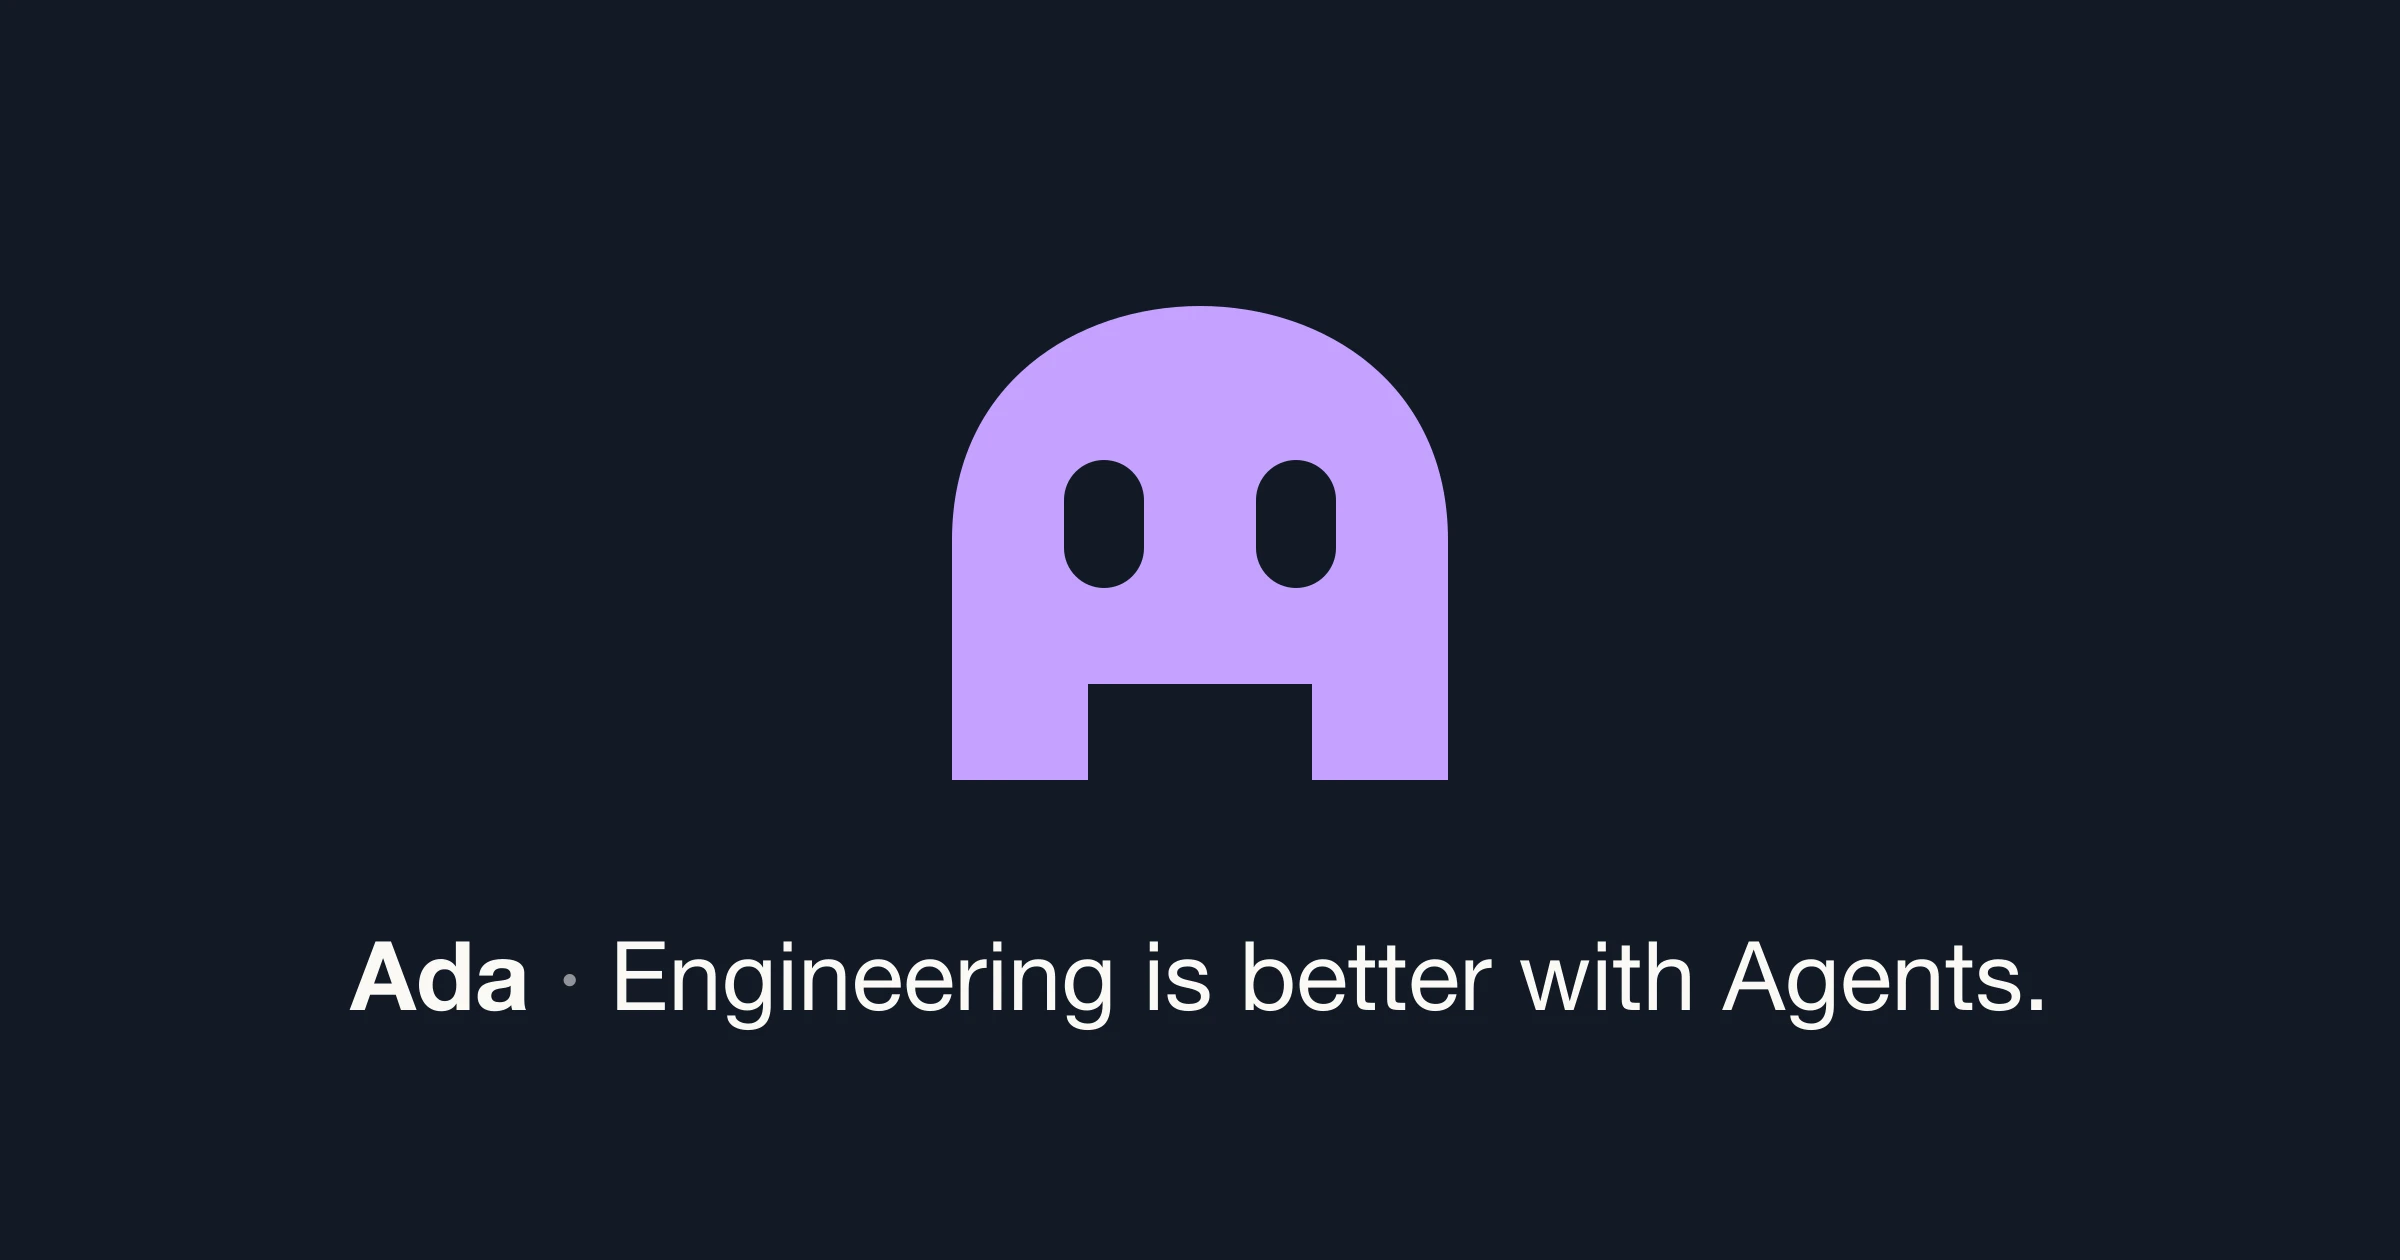
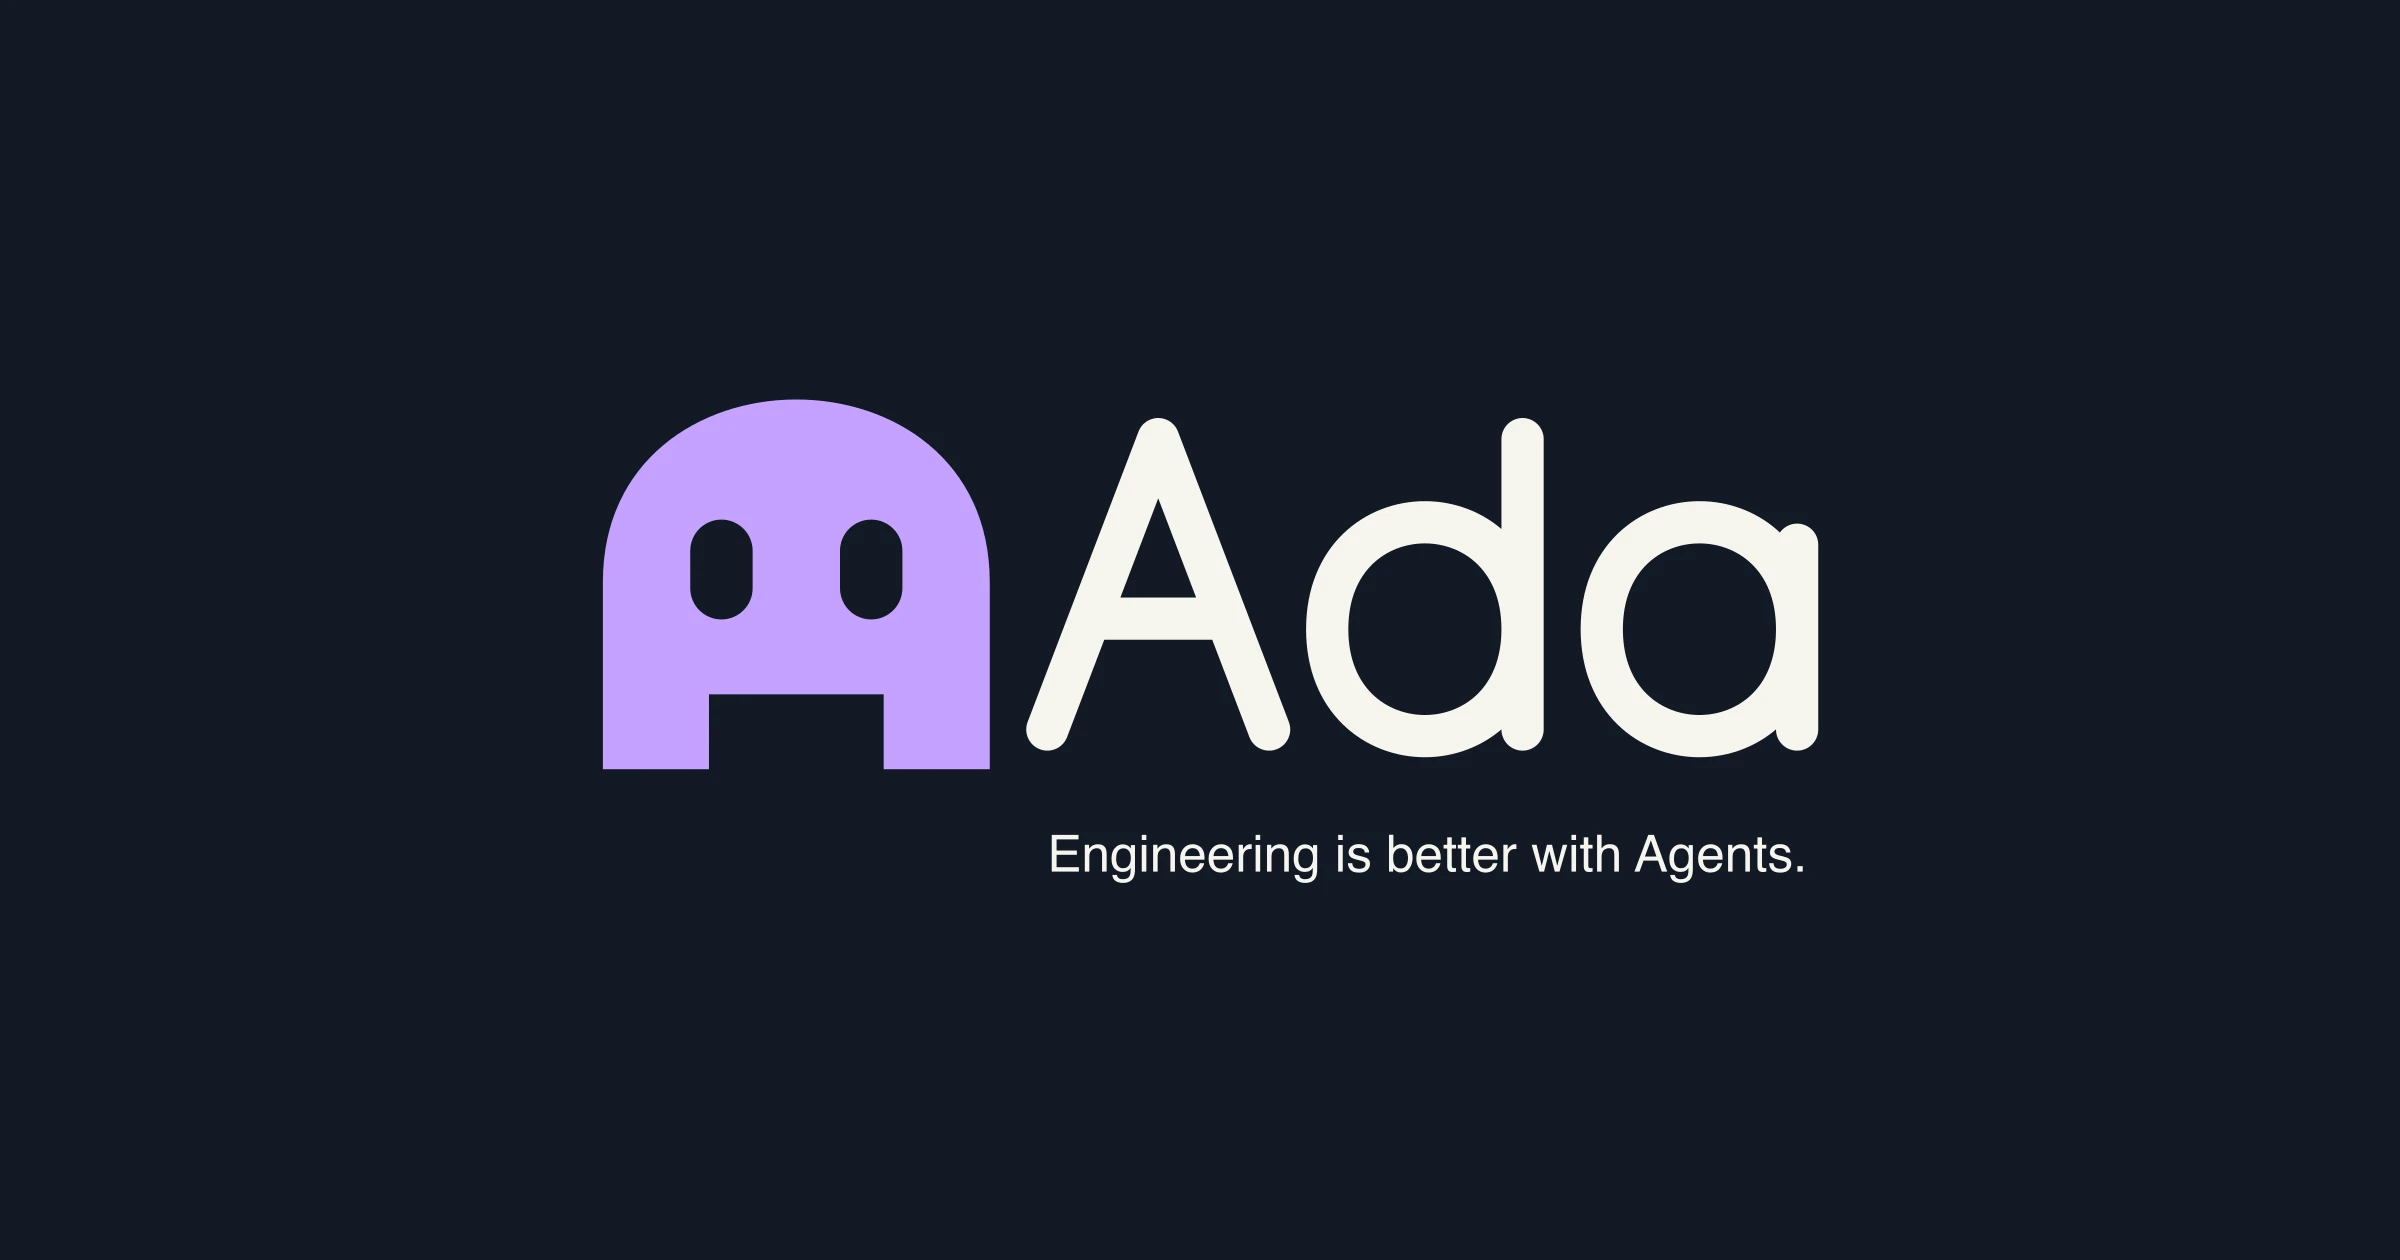
feat: README and social card use the approved Ada lockup
The README picks the dark or light lockup with prefers-color-scheme. The social card nests the dark lockup.

diff --git a/scripts/export-brand-icons.ts b/scripts/export-brand-icons.ts
@@ -2,7 +2,6 @@
 
 import * as NodeRuntime from "@effect/platform-node/NodeRuntime";
 import * as NodeServices from "@effect/platform-node/NodeServices";
-import { APP_NAME, APP_SLOGAN } from "@t3tools/shared/branding";
 import * as HostProcess from "@t3tools/shared/HostProcess";
 import * as Console from "effect/Console";
 import * as Effect from "effect/Effect";
@@ -17,7 +16,7 @@ import sharp from "sharp";
 
 import { BRAND_ASSET_PATHS, DEVELOPMENT_PUBLIC_ICON_OVERRIDES } from "./lib/brand-assets.ts";
 import { encodePngIco, readPngDimensions, WINDOWS_ICON_SIZES } from "./lib/icon-export.ts";
-import { parsePip, PIP_COLORS, PIP_SOURCE, pipGlyphSvg, type Pip } from "./lib/pip.ts";
+import { parsePip, PIP_COLORS, PIP_SOURCE, pipGlyphSvg } from "./lib/pip.ts";
 
 const DESIGN_GENERATION = 26;
 const ICON_COMPOSER_EXECUTABLE_PARTS = [
@@ -288,14 +287,19 @@ const MARKETING_ICONS = [
 ] as const;
 const SOCIAL_CARD = "apps/marketing/src/assets/social-card.webp";
 
-// Open Graph card at 2x. Text uses system fonts, like the rest of this macOS-only export.
-const socialCardSvg = (pip: Pip) => {
-  const width = 2400;
-  const glyphHeight = 480;
-  const scale = glyphHeight / pip.height;
-  const tx = (width - pip.width * scale) / 2 - pip.x * scale;
-  const ty = 300 - pip.y * scale;
-  return `<svg xmlns="http://www.w3.org/2000/svg" width="${width}" height="1260" viewBox="0 0 ${width} 1260"><rect width="${width}" height="1260" fill="${PIP_COLORS.navy}"/><g transform="translate(${tx.toFixed(3)} ${ty.toFixed(3)}) scale(${scale.toFixed(5)})"><path fill="${PIP_COLORS.lavender}" fill-rule="evenodd" d="${pip.d}"/></g><text xml:space="preserve" x="${width / 2}" y="1010" text-anchor="middle" fill="#FAF9F5" font-family="Helvetica Neue, Helvetica, Arial, sans-serif" font-size="96"><tspan font-weight="700">${APP_NAME}</tspan><tspan fill-opacity="0.55"> · </tspan>${APP_SLOGAN}</text></svg>`;
+const SOCIAL_CARD_LOCKUP = "assets/agents/pip-lockup-dark.svg";
+
+// Open Graph card at 2x: the approved dark lockup on its own navy. The slogan uses system fonts,
+// like the rest of this macOS-only export.
+const socialCardSvg = (lockup: string) => {
+  const [width, height] = [2400, 1260];
+  const lockupWidth = 2240;
+  const lockupHeight = (lockupWidth * 560) / 1400;
+  const nested = lockup.replace(
+    /<svg [^>]*>/,
+    `<svg x="${(width - lockupWidth) / 2}" y="${(height - lockupHeight) / 2}" width="${lockupWidth}" height="${lockupHeight}" viewBox="0 0 1400 560">`,
+  );
+  return `<svg xmlns="http://www.w3.org/2000/svg" width="${width}" height="${height}" viewBox="0 0 ${width} ${height}"><rect width="${width}" height="${height}" fill="${PIP_COLORS.navy}"/>${nested}</svg>`;
 };
 
 const encodeWith = (label: string, encode: () => Promise<Buffer>) =>
@@ -843,10 +847,19 @@ export const exportBrandIcons = Effect.fn("exportBrandIcons")(function* (checkOn
       yield* encodeWith(target, () => sharp(sourceContents).webp({ quality: 90 }).toBuffer()),
     );
   }
+  const lockupSource = path.join(repositoryRoot, SOCIAL_CARD_LOCKUP);
+  const lockup = yield* fs
+    .readFileString(lockupSource)
+    .pipe(
+      Effect.mapError(
+        (cause) =>
+          new IconExportFileSystemError({ operation: "read-file", path: lockupSource, cause }),
+      ),
+    );
   generated.set(
     SOCIAL_CARD,
     yield* encodeWith(SOCIAL_CARD, () =>
-      sharp(Buffer.from(socialCardSvg(pip)))
+      sharp(Buffer.from(socialCardSvg(lockup)))
         .webp({ quality: 90 })
         .toBuffer(),
     ),

diff --git a/README.md b/README.md
@@ -1,16 +1,16 @@
 <p align="center">
-  <img src="assets/agents/icon-512x512.png" alt="Pip, the Ada logo" width="128" height="128">
+  <picture>
+    <source media="(prefers-color-scheme: dark)" srcset="assets/agents/pip-lockup-dark.png">
+    <source media="(prefers-color-scheme: light)" srcset="assets/agents/pip-lockup-light.png">
+    <img src="assets/agents/pip-lockup-light.png" alt="Ada: Engineering is better with Agents." width="560">
+  </picture>
 </p>
-
-<h1 align="center">Ada</h1>
-
-<p align="center"><strong>Agentic Desktop Application. Engineering is better with Agents.</strong></p>
 
 <p align="center">
   <a href="https://x.com/jayleaton"><img src="https://img.shields.io/badge/Follow-%40jayleaton-000000?logo=x&logoColor=white" alt="Follow @jayleaton"></a> <a href="https://buymeacoffee.com/jayleaton"><img src="https://img.shields.io/badge/Buy_Me_a_Coffee-Support-FFDD00?logo=buymeacoffee&logoColor=black" alt="Buy Me a Coffee: Support"></a>
 </p>
 
-Ada lets you direct the coding agents on your machine (Claude Code, Codex, Cursor, Grok Build,
+Ada (Agentic Desktop Application) lets you direct the coding agents on your machine (Claude Code, Codex, Cursor, Grok Build,
 OpenCode, Google Antigravity, and fx) from one workspace, across a desktop app, a web app, and a
 mobile app. Your agents run wherever Ada runs: your desktop, a server, or a VPS, and you can connect
 to it from anywhere.

diff --git a/assets/README.md b/assets/README.md
@@ -1,6 +1,6 @@
 # Brand icons
 
-`agents/pip.svg` is the only hand-edited brand source: Ada's mark, Pip. Everything else is generated from it.
+`agents/pip.svg` is the hand-edited source for Ada's mark, Pip, and every icon is generated from it. `agents/pip-lockup-{dark,light}.{svg,png}` are the approved wordmark lockups, used as-is by the README and, through the export, the social card.
 
 The three Icon Composer projects give each release channel its backdrop:
 
